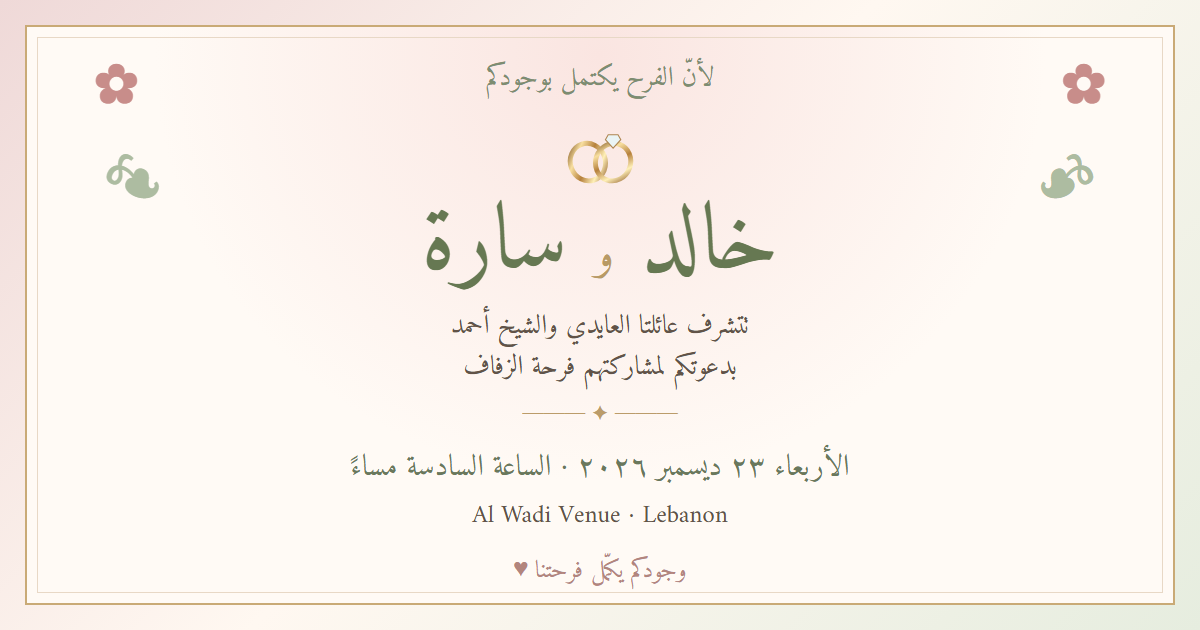
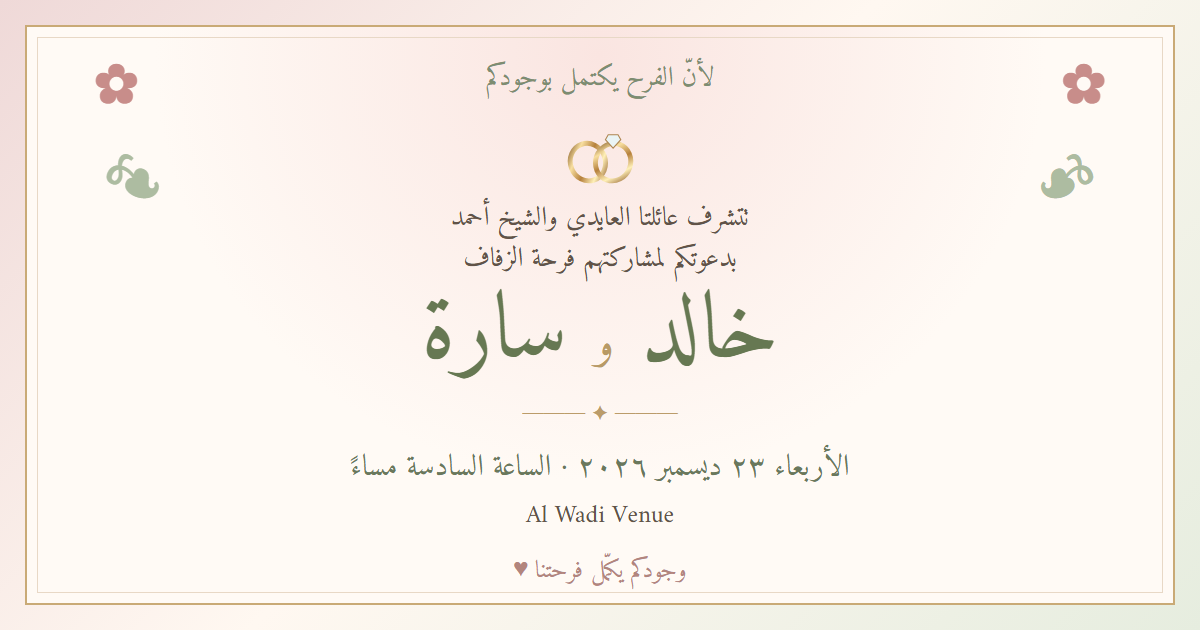
Update invitation wording

Changed region(s): [[0.3392, 0.3016, 0.6475, 0.6032], [0.4008, 0.7841, 0.6167, 0.8444]]

diff --git a/index.html b/index.html
@@ -4,7 +4,7 @@
   <meta charset="utf-8">
   <meta name="viewport" content="width=device-width, initial-scale=1">
   <meta name="theme-color" content="#f5f2e9">
-  <meta name="description" content="دعوة لحفل زفاف خالد وسارة، الأربعاء ٢٣ ديسمبر ٢٠٢٦ في لبنان.">
+  <meta name="description" content="دعوة لحفل زفاف خالد وسارة، الأربعاء ٢٣ ديسمبر ٢٠٢٦.">
   <meta property="og:type" content="website">
   <meta property="og:title" content="دعوة زفاف خالد وسارة">
   <meta property="og:description" content="يسعدنا حضوركم ومشاركتنا فرحتنا يوم ٢٣ ديسمبر ٢٠٢٦.">
@@ -86,9 +86,9 @@
         <path d="M110 3v9M105.5 7.5h9" stroke="#d4b776" stroke-width="1"/>
       </svg>
       <p class="opening">لأنّ الفرح يكتمل بوجودكم</p>
-      <h1><span>خالد</span><span class="ampersand">و</span><span>سارة</span></h1>
       <p class="families">تتشرف عائلتا العايدي والشيخ أحمد<br>بدعوتكم لمشاركتهم فرحة زفاف</p>
       <p class="celebration">العروسين</p>
+      <h1><span>خالد</span><span class="ampersand">و</span><span>سارة</span></h1>
     </header>
 
     <div class="divider" aria-hidden="true"><span></span>❋<span></span></div>
@@ -101,9 +101,8 @@
         <p class="time">الساعة السادسة مساءً</p>
       </div>
       <div class="venue">
-        <p class="section-label">مكان الحفل</p>
+        <p class="section-label">مكان الزفاف</p>
         <h2>Al Wadi Venue</h2>
-        <p>لبنان</p>
         <a class="location-button" href="https://www.google.com/maps/search/?api=1&amp;query=Al%20Wadi%20Venue%20Lebanon" target="_blank" rel="noopener noreferrer">
           <span aria-hidden="true">↗</span> عرض الموقع على الخريطة
         </a>

diff --git a/style.css b/style.css
@@ -125,7 +125,6 @@ h1 {
 .time { font-size: 16px; line-height: 1.4; }
 .venue { border-right: 1px solid #e3cfc1; }
 .venue h2 { direction: ltr; font-family: Georgia, serif; font-size: clamp(16px, 4vw, 21px); font-weight: 400; }
-.venue > p:not(.section-label) { font-size: 16px; line-height: 1.3; }
 .location-button, .music-button {
   display: inline-flex;
   align-items: center;
